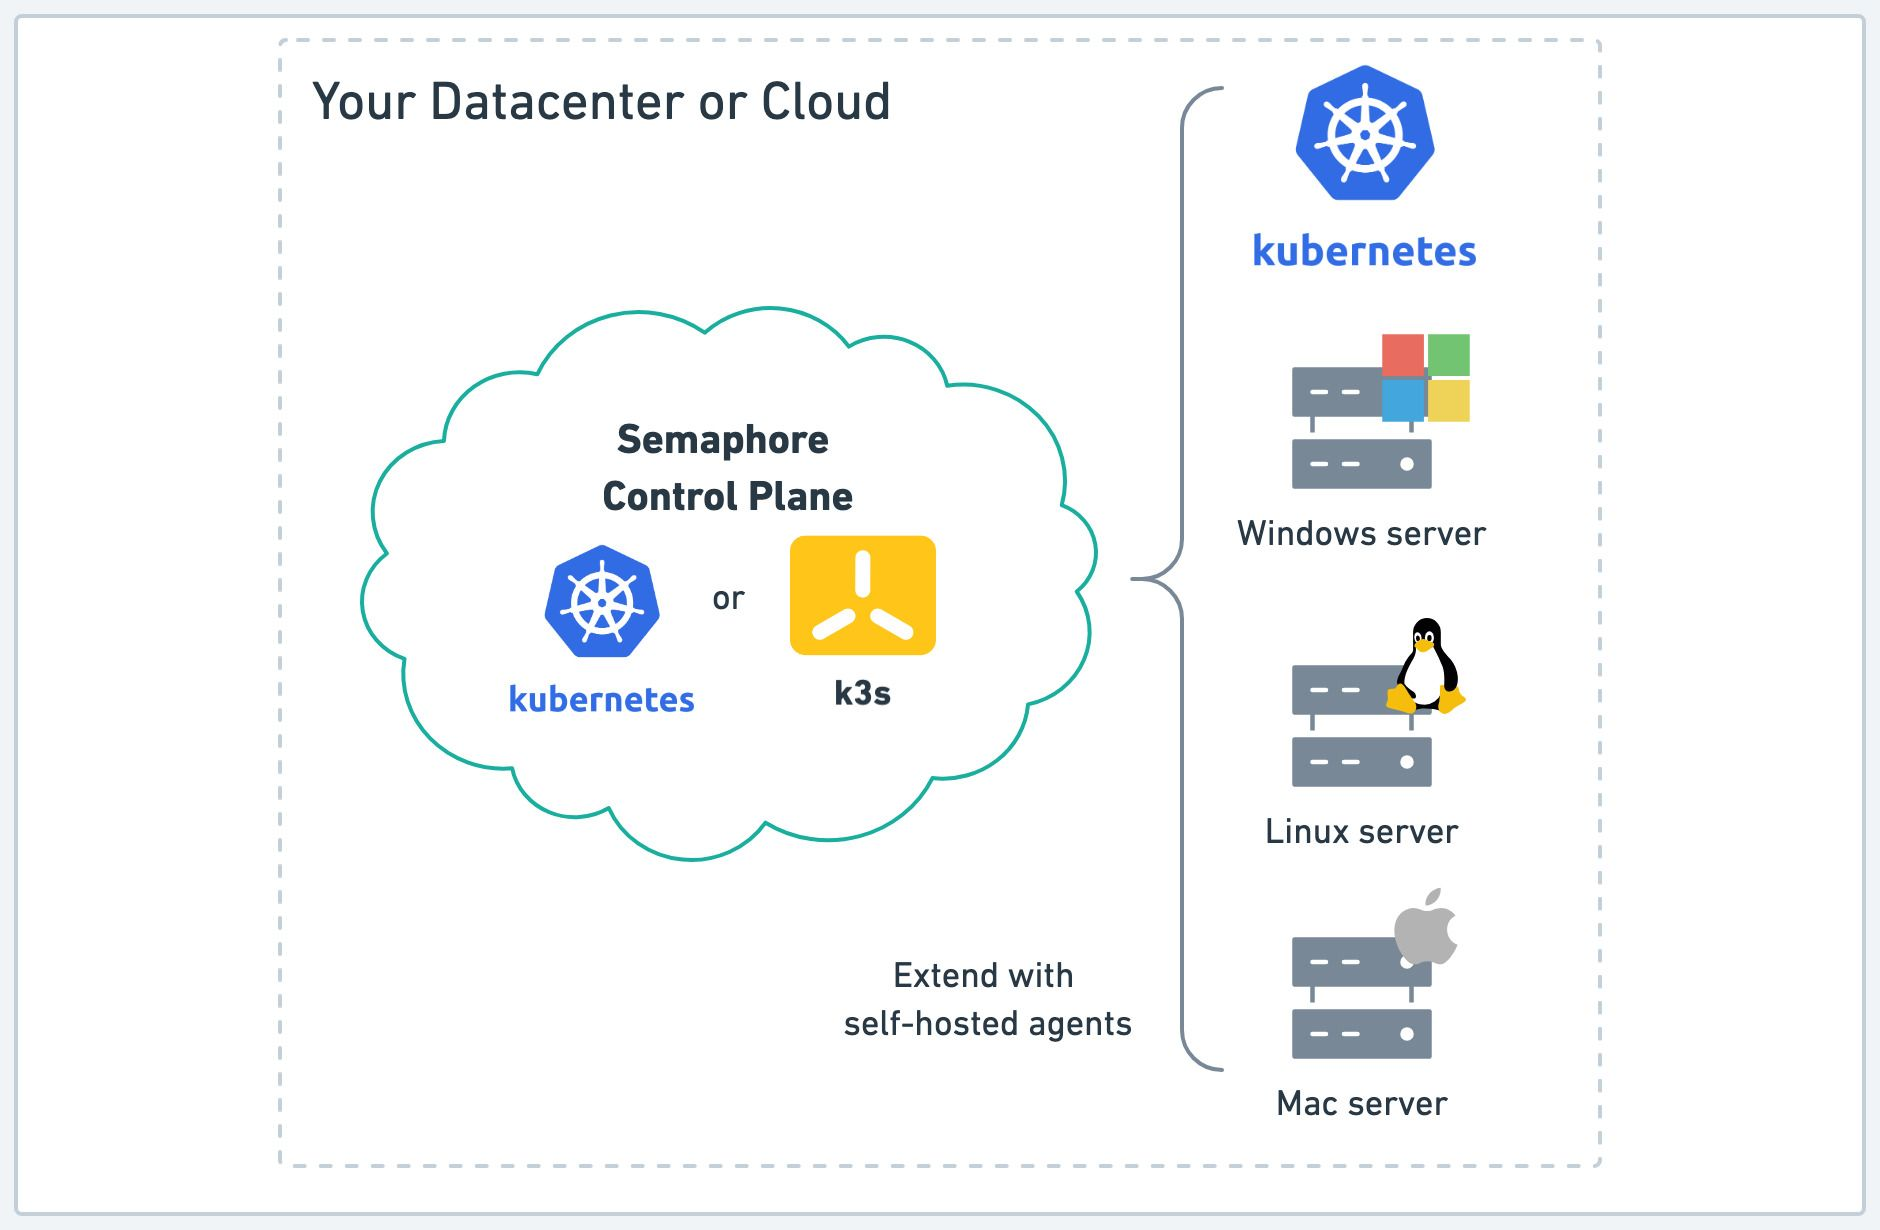
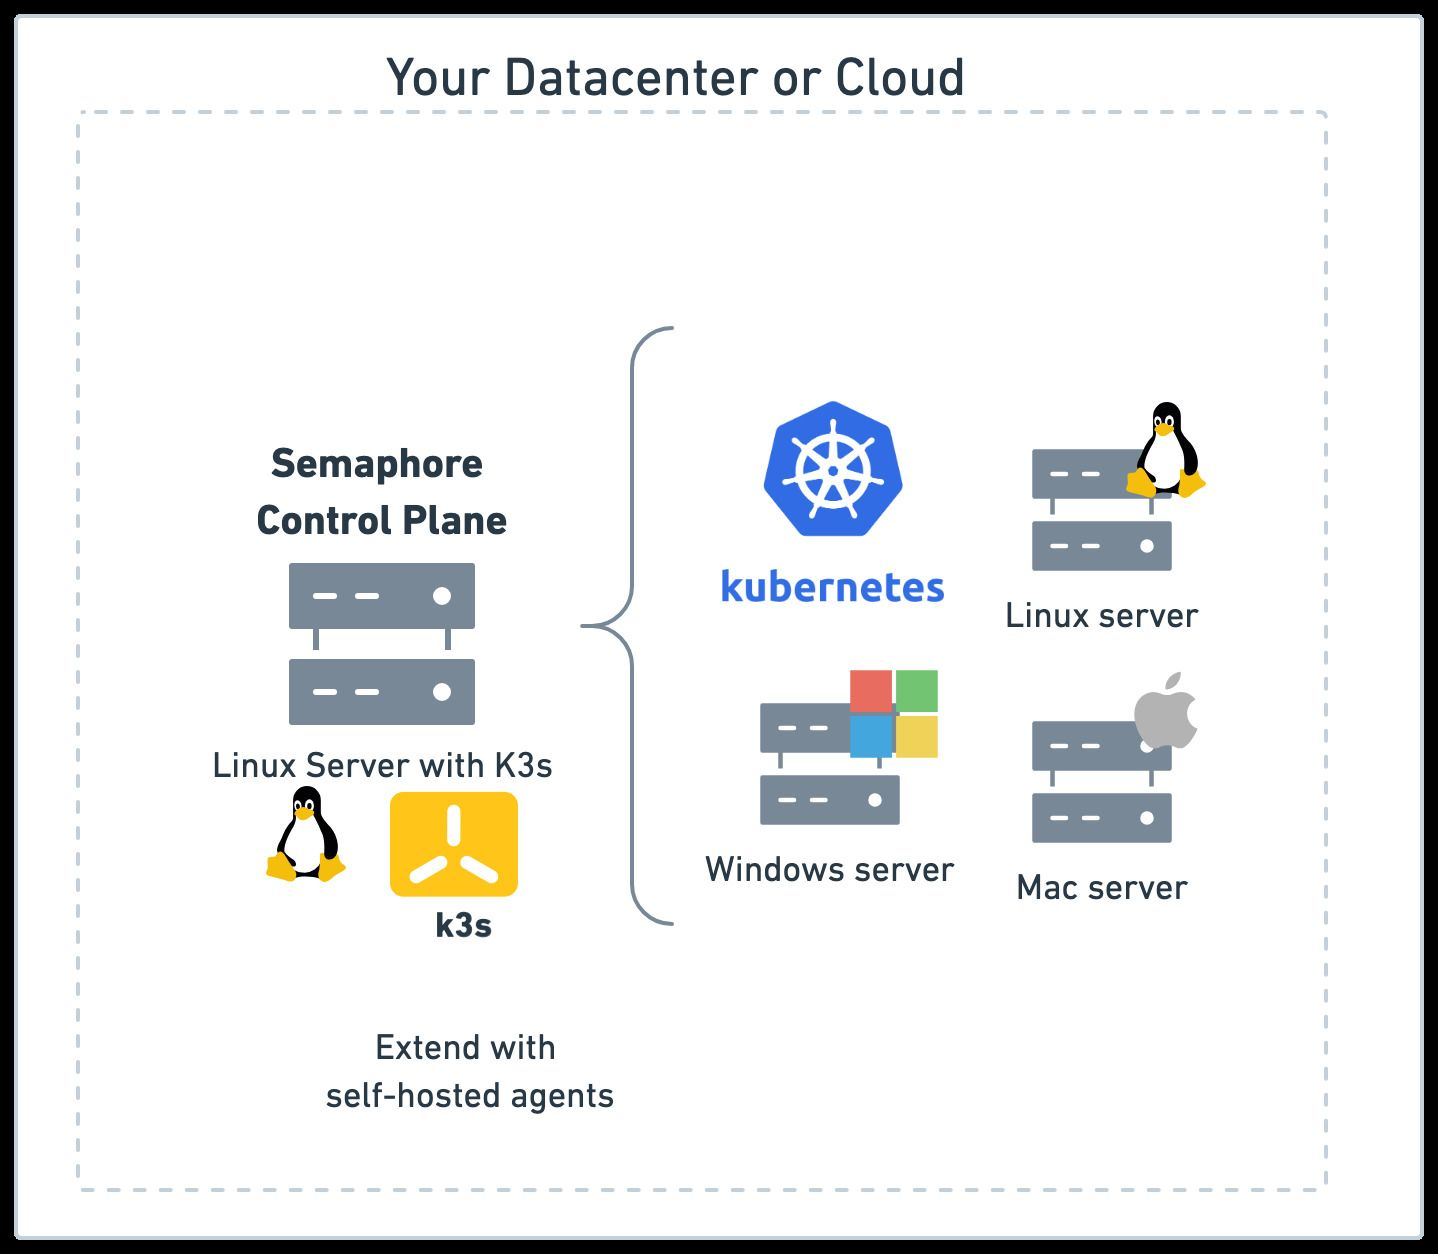
docs: wip installation CE

diff --git a/docs/versioned_docs/version-CE/getting-started/install.md b/docs/versioned_docs/version-CE/getting-started/install.md
@@ -2,67 +2,57 @@
 description: Install Semaphore on your hardware
 ---
 
-# Install Semaphore
+# Install Semaphore CE
 
-Semaphore has three self-hostable editions. See the [feature comparison](./features) to decide which edition of Semaphore is best for you.
+import { NiceButton, ButtonContainer } from '@site/src/components/NiceButton';
+import { GKEIcon, EKSIcon, UbuntuIcon, GCPCompute, AWSEC2Icon } from '@site/src/components/CustomIcons';
 
-<Columns>
-  <Column className='text--center'>
- <Card shadow='tl' style={{marginBottom:10 + 'px'}}>
-    <CardHeader>
-      <h3>Community Edition</h3>
-    </CardHeader>
-    <CardBody>
-          Free <br/>
-          Open source<br/>
-          For small teams
-    </CardBody>
-    <CardFooter>
-      <a href="/CE/getting-started/install-overview">
-        <button className='button button--secondary button--block'>Install Semaphore CE</button>
-      </a>
-    </CardFooter>
-  </Card>
-  </Column>
-  <Column className='text--center'>
- <Card shadow='tl' style={{marginBottom:10 + 'px'}}>
-    <CardHeader>
-      <h3>Development Build</h3>
-    </CardHeader>
-    <CardBody>
-          Open source <br/>
-          Runs on laptops <br/>
-          For development and testing
-    </CardBody>
-    <CardFooter>
-      <a href="/CE/getting-started/install-local">
-        <button className='button button--secondary button--block'>Install Dev Build</button>
-      </a>
-    </CardFooter>
-  </Card>
-  </Column>
-  <Column className='text--center'>
- <Card shadow='tl' style={{marginBottom:10 + 'px'}}>
-    <CardHeader>
-      <h3>Enterprise Edition</h3>
-    </CardHeader>
-    <CardBody>
-          Requires license <br/>
-          Source available <br/>
-          For big teams and companies
-    </CardBody>
-    <CardFooter>
-      <a href="/EE/getting-started/install-overview">
-        <button className='button button--secondary button--block'>Install Semaphore EE</button>
-      </a>
-    </CardFooter>
-  </Card>
-  </Column>
-</Columns>
+To install Semaphore, you need:
 
-## Other Tools
+- A domain
+- Minimum memory: **16GB RAM**
+- Minimum compute: **8 CPUs**
 
-The following tools work with any edition of Semaphore:
 
-- [Semaphore CLI](../reference/semaphore-cli): manage your projects from the command line.
-- [Self hosted agents](../using-semaphore/self-hosted.md): expand capacity by running jobs on your hardware.
+## Semaphore Architecture
+
+A Semaphore installation consists of two components:
+
+- **Control plane**: the control plane orchestrates jobs, serves the web application and public API, handles logging, manages permissions, and connects with your repositories.
+- [**Agents**](../using-semaphore/self-hosted): the only purpose of an agent is to run jobs. The default Semaphore installation includes one agent that runs on the same cluster as the control plane but you can add more to expand capacity and build on multiple architectures.
+
+![Semaphore architecture](./img/arch-semaphore.jpg)
+
+
+## Choose your platform {#install-method}
+
+You can install Semaphore on a single Linux machine or in a Kubernetes cluster.
+
+<ButtonContainer>
+   <NiceButton
+    icon={UbuntuIcon}
+    title="Install on Linux"
+    subtitle="Single Machine with k3s"
+    url="./install-single-machine"
+  />
+  <NiceButton
+    icon={GKEIcon}
+    title="Install on Kubernetes"
+    subtitle="Kubernetes Cluster Install"
+    url="./install-kubernetes"
+  />
+</ButtonContainer>
+
+Each platform presents trade-off. Use the following table as a guide:
+
+
+| Facility | Single machine | Kubernetes cluster |
+|--|--|--|
+| Backup and restore | Simple | Complex |
+| Infrastructure costs | Lower | Higher |
+| Scalability of control plane | Low  <div class="tooltip">ⓘ<span class="tooltiptext">Can only be scaled vertically with a more powerful machine.</span></div> | High <div class="tooltip">ⓘ<span class="tooltiptext">Can be scaled horizontally and vertically.</span></div> |
+| Scalability of job runner (agents) | High | High |
+| Redundancy | None | High |
+| Availability | Low <div class="tooltip">ⓘ<span class="tooltiptext">Server is single point of failure.</span></div> | High <div class="tooltip">ⓘ<span class="tooltiptext">If a node goes down, Kubernetes can autoheal.</span></div> |
+
+

diff --git a/docs/docs/getting-started/install.md b/docs/docs/getting-started/install.md
@@ -4,7 +4,12 @@ description: Install Semaphore on your hardware
 
 # Install Semaphore
 
-Semaphore has three self-hostable editions. See the [feature comparison](./features) to decide which edition of Semaphore is best for you.
+Semaphore has two self-hostable production-ready editions: 
+
+- **Community Edition**: is open source (Apache-2), free forever, and perfect for small teams and companies.
+- **Enterprise Edition**: is source available, requires a license, and supports Enterprise-level features such as multi-branching workflows, audit logs, and advanced Role-Based Access Controls.
+
+See the [feature comparison](./features) to decide which edition of Semaphore is best for you.
 
 <Columns>
   <Column className='text--center'>
@@ -18,25 +23,8 @@ Semaphore has three self-hostable editions. See the [feature comparison](./featu
           For small teams
     </CardBody>
     <CardFooter>
-      <a href="/CE/getting-started/install-overview">
+      <a href="/CE/getting-started/install">
         <button className='button button--secondary button--block'>Install Semaphore CE</button>
-      </a>
-    </CardFooter>
-  </Card>
-  </Column>
-  <Column className='text--center'>
- <Card shadow='tl' style={{marginBottom:10 + 'px'}}>
-    <CardHeader>
-      <h3>Development Build</h3>
-    </CardHeader>
-    <CardBody>
-          Open source <br/>
-          Runs on laptops <br/>
-          For development and testing
-    </CardBody>
-    <CardFooter>
-      <a href="/CE/getting-started/install-local">
-        <button className='button button--secondary button--block'>Install Dev Build</button>
       </a>
     </CardFooter>
   </Card>
@@ -47,7 +35,7 @@ Semaphore has three self-hostable editions. See the [feature comparison](./featu
       <h3>Enterprise Edition</h3>
     </CardHeader>
     <CardBody>
-          Requires license <br/>
+          Requires a license <br/>
           Source available <br/>
           For big teams and companies
     </CardBody>
@@ -60,9 +48,12 @@ Semaphore has three self-hostable editions. See the [feature comparison](./featu
   </Column>
 </Columns>
 
+Developers interested in contributing to the [Semaphore repository](https://github.com/semaphoreio/semaphore) should use a [local development build](https://github.com/semaphoreio/semaphore/blob/main/LOCAL-DEVELOPMENT.md).
+
 ## Other Tools
 
-The following tools work with any edition of Semaphore:
+The following free tools complement your Semaphore installation:
 
 - [Semaphore CLI](../reference/semaphore-cli): manage your projects from the command line.
 - [Self hosted agents](../using-semaphore/self-hosted.md): expand capacity by running jobs on your hardware.
+- [K9s](https://k9scli.io/): TUI application to manage and observe your Semaphore installation.

diff --git a/docs/versioned_docs/version-CE/getting-started/install-single-machine.md b/docs/versioned_docs/version-CE/getting-started/install-single-machine.md
@@ -1,0 +1,21 @@
+---
+description: Install Semaphore on a single Linux machine
+---
+
+# Single Linux Machine
+
+Covers: Ubuntu, GCP VM and EC2 VM
+
+
+:::note
+
+Ensure that your VMs are running with hardware-supported virtualization mode enabled. Without this feature Semaphore might not run at all, even if when the minimum hardware requirements are met.
+
+:::
+
+
+:::note
+
+This Helm command installs the Community Edition. If you want to install the Enterprise Edition, refer see the [Enterprise Installation page](/EE/getting-started/install-single-machine).
+
+:::

diff --git a/docs/versioned_docs/version-CE/getting-started/install-kubernetes.md b/docs/versioned_docs/version-CE/getting-started/install-kubernetes.md
@@ -1,0 +1,13 @@
+---
+description: Install Semaphore on a full-blown Kubernetes Cluster
+---
+
+# Kubernetes Cluster
+
+Covers: GKE and EKS clusters
+
+:::note
+
+This Helm command installs the Community Edition. If you want to install the Enterprise Edition, refer see the [Enterprise Installation page](/EE/getting-started/install-kubernetes).
+
+:::

diff --git a/docs/versioned_docs/version-CE/getting-started/install-overview.md b/docs/versioned_docs/version-CE/getting-started/install-overview.md
@@ -4,11 +4,7 @@ description: Semaphore installation overview for Semaphore CE
 
 # Install Overview
 
-
-
-
-
-
+TODO: delete this page
 
 import { NiceButton, ButtonContainer } from '@site/src/components/NiceButton';
 import { GKEIcon, EKSIcon, UbuntuIcon, GCPCompute, AWSEC2Icon } from '@site/src/components/CustomIcons';

diff --git a/docs/versioned_docs/version-CE/getting-started/install-local.md b/docs/versioned_docs/version-CE/getting-started/install-local.md
@@ -4,6 +4,7 @@ description: Install a development build of Semaphore for testing
 
 # Development Build
 
+TODO: delete this page
 
 
 
